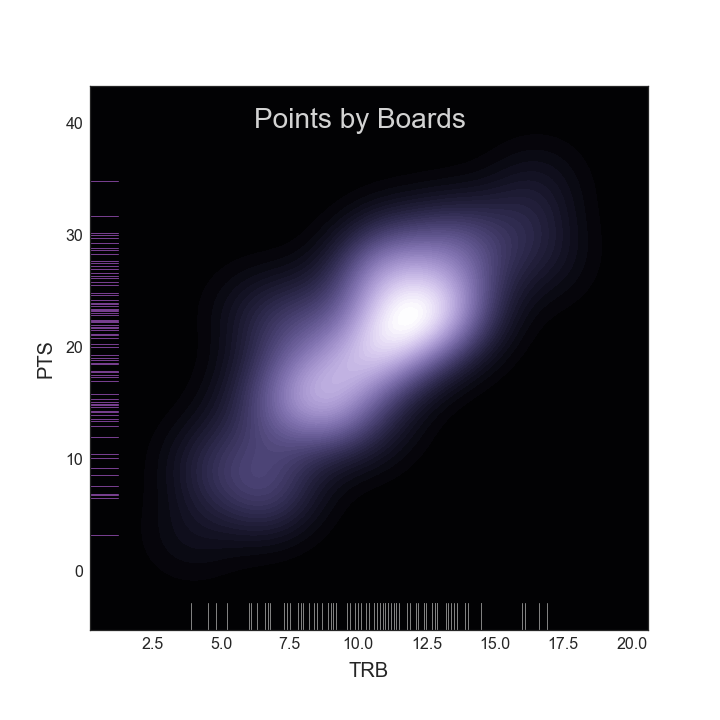
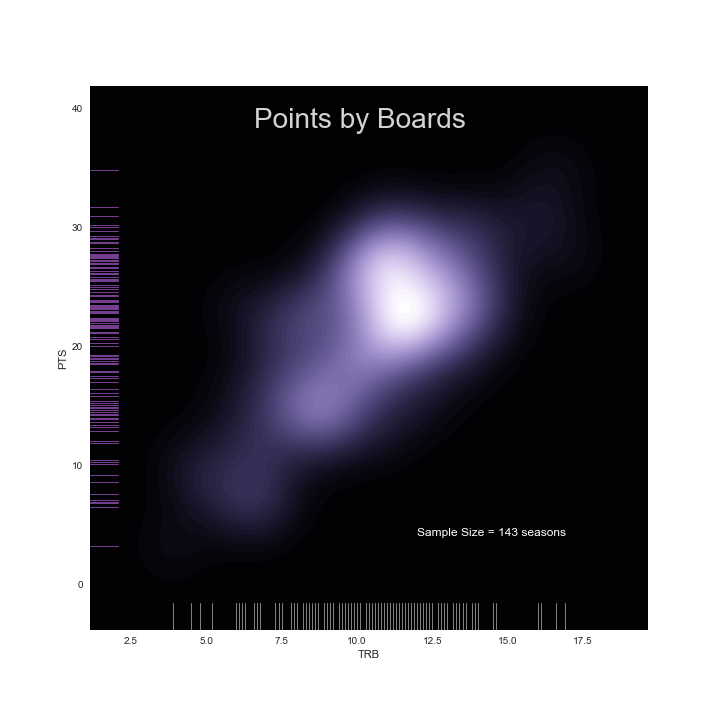
Refactoring, add sample size, more players

diff --git a/bigXckdPie.py b/bigXckdPie.py
@@ -8,37 +8,57 @@ import matplotlib as mpl
 mpl.rcParams['patch.force_edgecolor'] = True
 import matplotlib.pyplot as plt
 
-from bigMenData import shaq_dframe, td_dframe, kg_dframe, ka_dframe
+from bigMenData import shaq_dframe, td_dframe, kg_dframe, ka_dframe, ho_dframe, \
+                        cb_dframe, km_dframe
+        
 
 point_means= [
     round(shaq_dframe['PTS'].mean(),2),
     round(td_dframe['PTS'].mean(),2),
     round(kg_dframe['PTS'].mean(),2),
-    round(ka_dframe['PTS'].mean(),2)
+    round(ka_dframe['PTS'].mean(),2),
+    round(ho_dframe['PTS'].mean(),2),     
+    round(cb_dframe['PTS'].mean(),2),    
+    round(km_dframe['PTS'].mean(),2)     
 ]
 
 boards_means= [
     round(shaq_dframe['TRB'].mean(),2),
     round(td_dframe['TRB'].mean(),2),
     round(kg_dframe['TRB'].mean(),2),
-    round(ka_dframe['TRB'].mean(),2)
+    round(ka_dframe['TRB'].mean(),2),
+    round(ho_dframe['PTS'].mean(),2),     
+    round(cb_dframe['PTS'].mean(),2),    
+    round(km_dframe['PTS'].mean(),2)  
 ]
+
+labels = ["Shaquille O'Neal",
+          "Tim Duncan",
+          "Kevin Garnett",
+          "Kareem Abdul-Jabbar",
+          "Hakeem Olajuwon",
+          "Charles Barkley",
+          "Karl Malone"
+          ]
+
 
 #POINTS GRAPH
 big_men_pie_points = plt.figure()
 plt.xkcd()
 mpl.rcParams['font.sans-serif'] = "Comic Sans MS"
 mpl.rcParams['font.size'] = 12
-labels = 'Shaq','Tim','KG','Kareem'
 colors = [
           'yellowgreen', 
           'gold', 
           'lightskyblue', 
-          'lightcoral'
+          'lightcoral',
+          'darkgray',
+          'blue',
+          'red'
 ]
 
 plt.pie(point_means,
-        explode=(0, 0, 0, 0.1),
+        explode=(0, 0, 0, 0, 0, 0, 0.1),
         colors=colors,
         autopct='%1.1f%%', 
         shadow=True, 
@@ -54,51 +74,45 @@ plt.suptitle("Average Points Per Season",
 legend = plt.legend(bbox_to_anchor=(0.05,0.08),
                   loc='upper left', 
                   ncol=2,
-                  fontsize=14,
+                  fontsize=10,
                   frameon=True,
                   shadow=True,
-                  labels=["Shaquille O'Neal",
-                          "Tim Duncan",
-                          "Kevin Garnett",
-                          "Kareem Abdul-Jabbar"
-                          ])
-frame = legend.get_frame()
+                  labels=labels)
+
 #BOARDS GRAPH
 big_men_pie_boards = plt.figure()
-labels = 'Shaq','Tim','KG','Kareem'
 colors_boards = ['#6ED294', #greenish
                  '#c9a360', #orangish
                  '#5587a0', #bluish
-                 '#9b6e9a' #grayish
+                 '#9b6e9a', #grayish
+                 'darkgray',
+                 'blue',
+                 'red'
 ]
 
 plt.pie(boards_means, 
         colors=colors_boards,
-        explode=(0, 0, 0, 0.1),       
+        explode=(0, 0, 0, 0, 0, 0, 0.1),       
         autopct='%1.0f%%', 
         shadow=True, 
         startangle=90
         )
 
-plt.suptitle("Average Boards Per Season Breakdown",
+plt.suptitle("% Boards relative to peers",
              fontsize=18,
              y=0.9,
              x=0.5
              )
 
-legend = plt.legend(bbox_to_anchor=(0.05,0.08),
+legend2 = plt.legend(bbox_to_anchor=(0.05,0.08),
                   loc='upper left', 
                   ncol=2,
-                  fontsize=14,
+                  fontsize=11,
                   frameon=True,
                   shadow=True,
-                  labels=["Shaquille O'Neal",
-                          "Tim Duncan",
-                          "Kevin Garnett",
-                          "Kareem Abdul-Jabbar"
-                          ])
+                  labels=labels)
 
-frame = legend.get_frame()
 
-big_men_pie_points.savefig("graphs/big_xkcd_pie_points.png")
-big_men_pie_boards.savefig("graphs/big_xkcd_pie_boards.png")
+
+big_men_pie_points.savefig("graphs/big_xkcd_pie_points.png", bbox_extra_artists=(legend,), bbox_inches='tight')
+big_men_pie_boards.savefig("graphs/big_xkcd_pie_boards.png", bbox_extra_artists=(legend2,), bbox_inches='tight')

diff --git a/bigMenLine.py b/bigMenLine.py
@@ -15,43 +15,58 @@ from bigMenData import new_frame
 Graphs
 """
 plt.rcParams['axes.facecolor'] = '#212223'
-big_line_graph = sb.lmplot(
-                 data=new_frame,
-                 legend=False,
-                 x="PTS", 
-                 y="TRB",
-                 hue="player", 
-                 size=8, 
-                 aspect=1.3,
-                 palette=["#9b59b6", "#3498db", "#edb349", "#e74c3c"]
-                 )
-
-sb.set(font_scale = 1.6)
-plt.ylabel('Boards')
-plt.xlabel('Points')
 plt.rcParams['axes.titlepad'] = 25
 plt.rcParams["axes.labelpad"] = 10
 plt.rcParams["axes.labelsize"] = 20
-plt.title("The Big Men",
-          fontsize=32,
-          fontweight='bold'
-          )
+
+big_line = sb.lmplot(
+        data=new_frame,
+        legend=False,
+        x="PTS",
+        y="TRB",
+        hue="player",
+        size=8,
+        aspect=1.3,
+        palette = [
+                "#60d2d6",
+                "#3c2cb2",
+                "#ea5900",
+                "#bc1818",
+                "white",
+                "#fcee2a",
+                "#42c436"
+                ]
+        )            
+
+big_line.set(ylim=(0,20))
+big_line.set(ylabel='Boards')
+big_line.set(xlabel='Points')
+sb.set(font_scale = 1.6)
+
+plt.title("The Big Men", fontsize=32, fontweight='bold')
 
 sb.despine(left=True, bottom=True)
 
-legend = plt.legend(bbox_to_anchor=(.01, .98),
+legend = plt.legend(
+                  bbox_to_anchor=(.01, .98),
                   loc='upper left', 
-                  ncol=1,
+                  ncol=2,
                   fontsize=14,
                   frameon=True,
                   shadow=True,
                   labels=["Shaquille O'Neal",
                           "Tim Duncan",
                           "Kevin Garnett",
-                          "Kareem Abdul-Jabbar"
-                          ])
+                          "Kareem Abdul-Jabbar",
+                          "Hakeem Olajuwon",
+                          "Charles Barkley",
+                          "Karl Malone"
+                          ]
+                  )
+
 frame = legend.get_frame()
 
 sb.set_style("darkgrid")
+plt.show()
 
-big_line_graph.savefig("graphs/big_line_graph.png")
+big_line.savefig("graphs/big_line_graph.png")

diff --git a/bigMenSubLine.py b/bigMenSubLine.py
@@ -1,0 +1,79 @@
+# -*- coding: utf-8 -*-
+"""
+Created on Sun Oct  8 17:36:28 2017
+
+@author: dacrands
+"""
+import seaborn as sb
+import matplotlib as mpl
+mpl.rcParams['patch.force_edgecolor'] = True
+import matplotlib.pyplot as plt
+
+from bigMenData import new_frame
+
+"""
+Graphs
+"""
+plt.rcParams['axes.facecolor'] = '#212223'
+plt.rcParams['axes.titlepad'] = 25
+plt.rcParams["axes.labelpad"] = 10
+plt.rcParams["axes.labelsize"] = 14
+
+big_line = sb.lmplot(
+        data=new_frame,
+        x="PTS",
+        y="TRB",
+        hue="player",
+        col="player",
+        size=3.5,
+        aspect=1.2,
+        col_wrap=3,
+        palette = [
+                "#60d2d6",
+                "#3c2cb2",
+                "#ea5900",
+                "#bc1818",
+                "white",
+                "#fcee2a",
+                "#42c436"
+                ]
+        )            
+
+big_line.set(ylim=(0,20))
+sb.set(font_scale = 1.6)
+
+sb.despine(left=True, bottom=True)
+
+ax = big_line
+ax.add_legend(title="legend", 
+              labels=["Shaquille O'Neal",
+                      "Tim Duncan",
+                      "Kevin Garnett",
+                      "Kareem Abdul-Jabbar",
+                      "Hakeem Olajuwon",
+                      "Charles Barkley",
+                      "Karl Malone"
+                      ]
+              )
+#ax.legend(
+#          bbox_to_anchor=(.9, .98), 
+#          ncol=1,
+#          fontsize=14,
+#          frameon=True,
+#          shadow=True,
+#          labels=["Shaquille O'Neal",
+#                  "Tim Duncan",
+#                  "Kevin Garnett",
+#                  "Kareem Abdul-Jabbar",
+#                  "Hakeem Olajuwon",
+#                  "Charles Barkley",
+#                  "Karl Malone"
+#                  ]
+#          )
+
+#frame = legend.get_frame()
+
+sb.set_style("darkgrid")
+plt.show()
+
+big_line.savefig("graphs/big_line_graph.png")

diff --git a/bigMenData.py b/bigMenData.py
@@ -34,9 +34,35 @@ ka_dframe = pd.io.html.read_html(ka_url)
 ka_dframe = ka_dframe[0]
 ka_dframe = ka_dframe[['AST','PTS','TRB','Age']]
 
+ho_url = "https://www.basketball-reference.com/players/o/olajuha01.html"
+ho_dframe = pd.read_html(ho_url)
+ho_dframe = ho_dframe[0]
+ho_dframe = ho_dframe[['AST','PTS','TRB','Age']]
+
+cb_url = "https://www.basketball-reference.com/players/b/barklch01.html"
+cb_dframe = pd.read_html(cb_url)
+cb_dframe = cb_dframe[0]
+cb_dframe = cb_dframe[['AST','PTS','TRB','Age']]
+
+km_url = "https://www.basketball-reference.com/players/m/malonka01.html"
+km_dframe = pd.read_html(km_url)
+km_dframe = km_dframe[0]
+km_dframe = km_dframe[['AST','PTS','TRB','Age']]
+
 shaq_dframe['player'] = pd.Series(['SO' for i in range(len(shaq_dframe))])
 td_dframe['player'] = pd.Series(['TD' for i in range(len(td_dframe))])
 kg_dframe['player'] = pd.Series(['KG' for i in range(len(kg_dframe))])
 ka_dframe['player'] = pd.Series(['KA' for i in range(len(ka_dframe))])
+ho_dframe['player'] = pd.Series(['HO' for i in range(len(ho_dframe))])
+cb_dframe['player'] = pd.Series(['CB' for i in range(len(cb_dframe))])
+km_dframe['player'] = pd.Series(['KM' for i in range(len(km_dframe))])
 
-new_frame = pd.concat([shaq_dframe,td_dframe,kg_dframe,ka_dframe])
+new_frame = pd.concat([shaq_dframe,
+                       td_dframe,
+                       kg_dframe,
+                       ka_dframe, 
+                       ho_dframe,
+                       cb_dframe,
+                       km_dframe
+                       ])
+

diff --git a/bigKdeRug.py b/bigKdeRug.py
@@ -19,13 +19,16 @@ cmap = sb.cubehelix_palette(
                             rot=.05,
                             reverse=True
                             )
-sb.kdeplot(new_frame['TRB'], 
-           new_frame['PTS'], 
-           ax=ax,
-           shade=True,
-           cmap=cmap,
-           n_levels=60
-                           )
+sb.kdeplot(
+        new_frame['TRB'], 
+        new_frame['PTS'], 
+        ax=ax,
+        shade=True,
+        cmap=cmap,
+        n_levels=60,
+        annot_kws=dict(stat="r")
+        )
+
 sb.rugplot(new_frame['TRB'], color="gray", ax=ax)
 sb.rugplot(new_frame['PTS'],color='#763e8e', vertical=True, ax=ax)
 plt.suptitle("Points by Boards",
@@ -34,5 +37,9 @@ plt.suptitle("Points by Boards",
              y=0.85,
              x=0.5,
              )
+plt.text(12.0, 4.0, 
+         "Sample Size = {} seasons".format(len(new_frame)),
+         color="white",
+         fontsize=12)
 
 f.savefig("graphs/big_kde_rug_graph.png")

diff --git a/bigMenJoint.py b/bigMenJoint.py
@@ -29,5 +29,18 @@ big_jointplot = sb.jointplot(
 plt.rcParams['axes.titlepad'] = 10
 plt.rcParams["axes.labelpad"] = 10  
 plt.suptitle("Points and Aging",fontsize=28,y=1.03,x=.24,rotation=30)
+plt.text(36.0, 
+         37, 
+         "Sample Size = {}".format(len(new_frame)),
+         fontsize=14
+         )
+plt.text(12.0, 
+         .1, 
+         """
+         * Shaq, Karl Malone, Sir Charles, Tim Duncan, Kareem,
+            Kevin Garnett         
+         """,
+         fontsize=10
+         )
 
 big_jointplot.savefig(r"graphs/big_jointplot.png")

diff --git a/bigMenHoneycomb.py b/bigMenHoneycomb.py
@@ -38,4 +38,9 @@ plt.suptitle("Points as a function of Age",
 plt.xlabel('Age',fontweight='bold')
 plt.ylabel('Points',fontweight='bold')
 
+plt.text(22.0, 
+         5.0, 
+         "Sample Size = {}".format(len(new_frame)),
+         )
+
 big_honeycomb_graph.savefig(r"graphs/big_honeycomb_graph.png")
